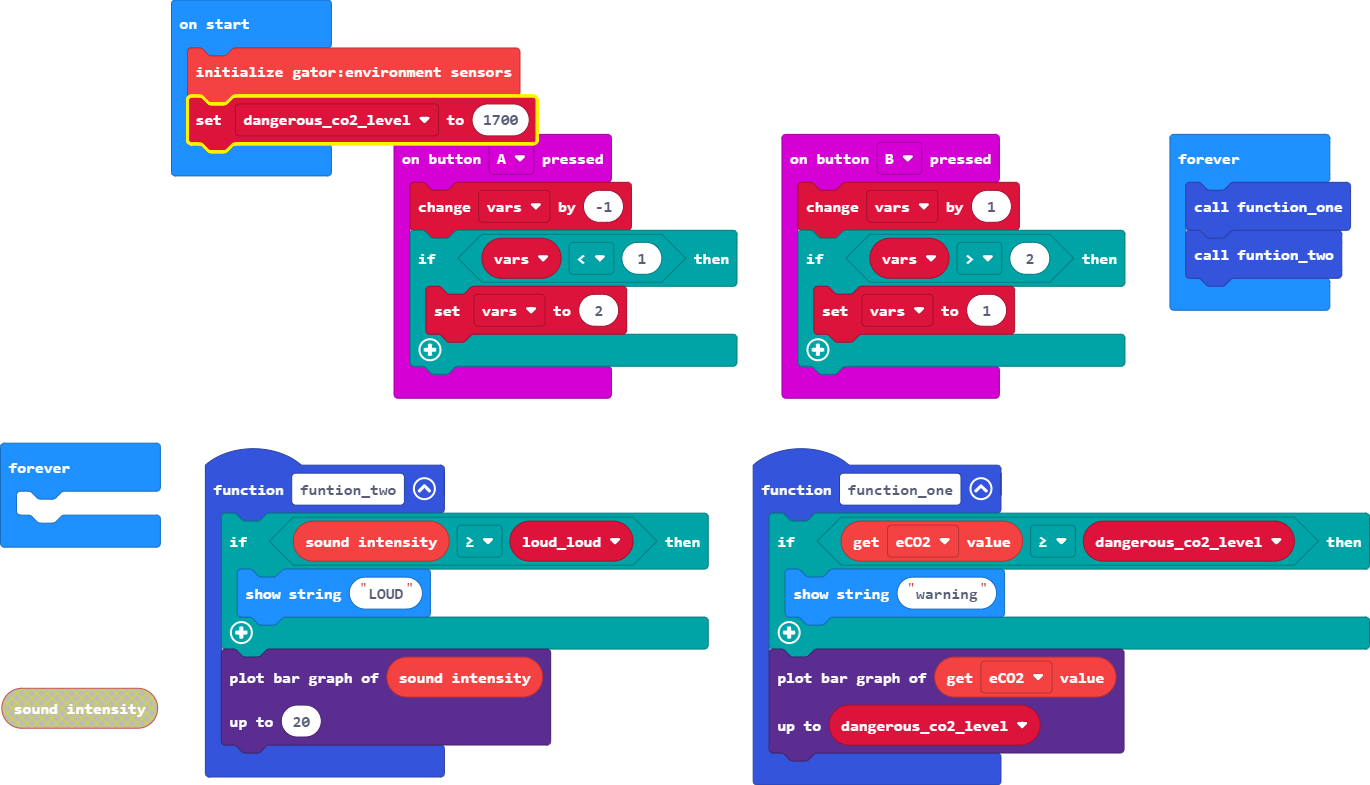
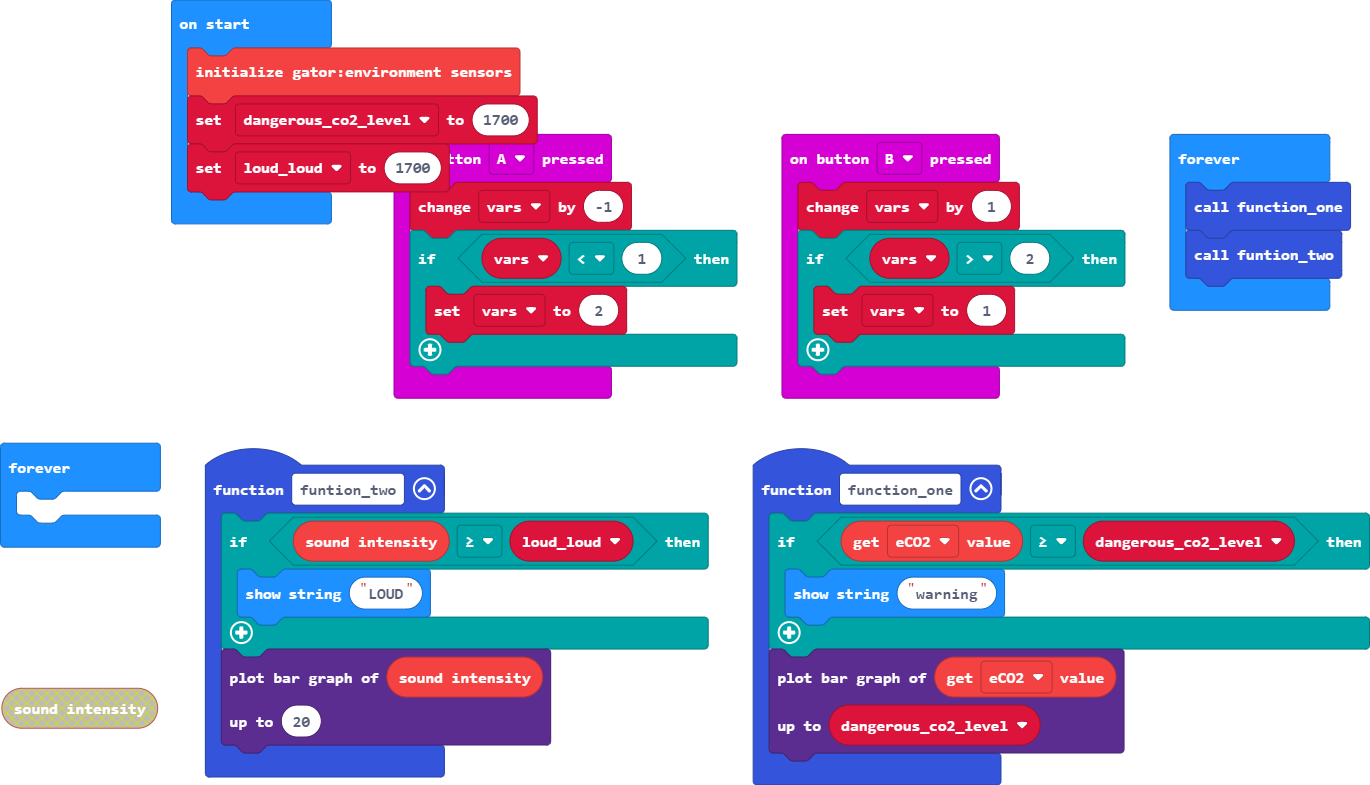
Update main.blocks, main.ts

Changed region(s): [[0.1226, 0.1223, 0.3372, 0.3057], [0.3679, 0.1223, 0.3985, 0.1834]]

diff --git a/main.ts b/main.ts
@@ -5,7 +5,6 @@ input.onButtonPressed(Button.A, function () {
     }
 })
 function funtion_two () {
-    let loud_loud = 0
     if (gatorMicrophone.getSoundIntensity() >= loud_loud) {
         basic.showString("LOUD")
     }
@@ -30,9 +29,11 @@ function function_one () {
     )
 }
 let vars = 0
+let loud_loud = 0
 let dangerous_co2_level = 0
 gatorEnvironment.beginEnvironment()
 dangerous_co2_level = 1700
+loud_loud = 1700
 basic.forever(function () {
     function_one()
     funtion_two()
